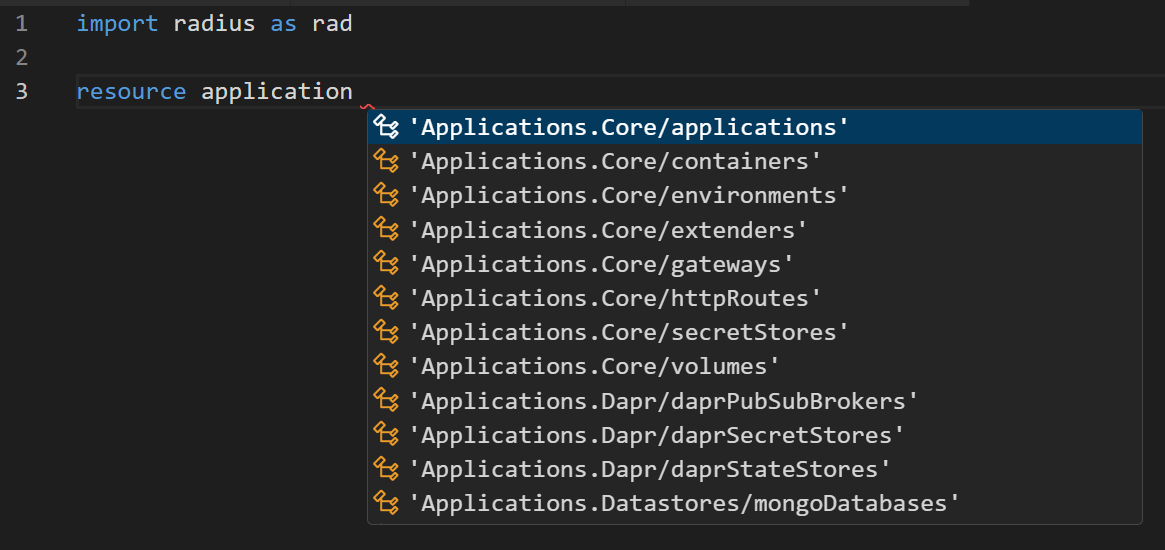
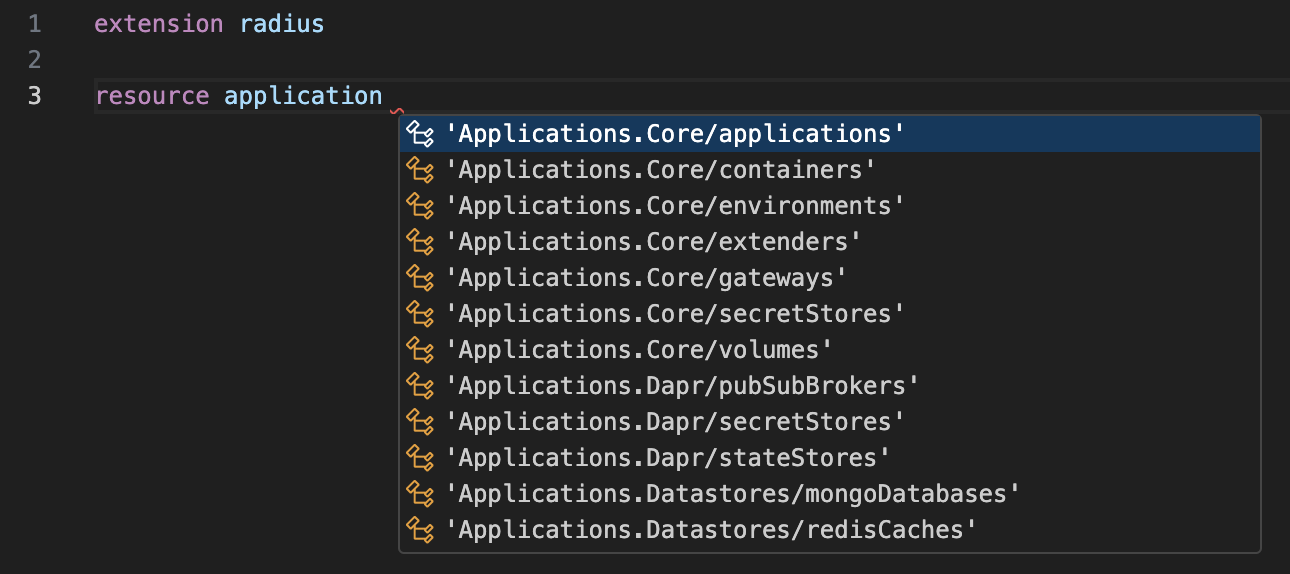
addressing comments

diff --git a/docs/layouts/partials/hooks/body-end.html b/docs/layouts/partials/hooks/body-end.html
@@ -5,7 +5,7 @@
     container: '#docsearch',
     appId: 'ED67NSVSZS',
     apiKey: '21e2920c3a9c29b98cbc382694413f29',
-    indexName: 'radapp-dev',
+    indexName: 'radapp-dev-edge',
   });
 </script>
 {{ end }}

diff --git a/docs/content/guides/tooling/vscode/overview/index.md b/docs/content/guides/tooling/vscode/overview/index.md
@@ -10,6 +10,9 @@ tags: ["VSCode"]
 
 When using Visual Studio Code with Radius there are a set of extensions you can install to help author, validate, and manage your Radius Applications and environments.
 
+**The official Bicep extension is not compatible with the Radius Bicep extension.** Previously, Radius made use of the Radius Bicep extension, a temporary extension used to model Radius and AWS resource types. The Radius Bicep extension has been deprecated and we have upstreamed our extensibility updates to the official Bicep. If you have the Radius Bicep extension installed you will need to disable or uninstall it before installing the Bicep extension. 
+{{< /alert >}}
+
 ## Bicep extension
 
 The Bicep extension provides formatting, intellisense, and validation for Bicep templates.
@@ -20,10 +23,6 @@ The Bicep extension provides formatting, intellisense, and validation for Bicep 
 {{< button text="Bicep guide" page="howto-vscode-bicep" >}}
 
 {{< alert title="Note" color="secondary" >}}
-
-
-**The official Bicep extension is not compatible with the Radius Bicep extension.** Previously, Radius made use of the Radius Bicep extension, a temporary extension used to model Radius and AWS resource types. The Radius Bicep extension has been deprecated and we have upstreamed our extensibility updates to the official Bicep. If you have the Radius Bicep extension installed you will need to disable or uninstall it before installing the Bicep extension. 
-{{< /alert >}}
 
 ## Terraform extension
 

diff --git a/docs/content/getting-started/index.md b/docs/content/getting-started/index.md
@@ -73,7 +73,7 @@ In addition to starting Radius services in your Kubernetes cluster, this initial
 
 {{< rad file="snippets/app.bicep" embed=true markdownConfig="{linenos=table,linenostart=1}" >}}
 
-> This file will run the `ghcr.io/radius-project/samples/demo:latest` image. This image is published by the Radius team to a public registry, you do not need to create it. `rad init` also creates a `bicepconfig.json` file in your application's directory that has the necessary setup to use Radius with the official Bicep compiler. 
+> This file will run the `ghcr.io/radius-project/samples/demo:latest` image. This image is published by the Radius team to a public registry, you do not need to create it. `rad init` also creates a `bicepconfig.json` file in your application's directory that has the necessary setup to use Radius with the official Bicep compiler. The "radius" extension contains the schema information for all Radius-maintained resources, and the "aws" extension contains the schema information for AWS resources. These are enabled by default in the `bicepconfig.json` so that you can use all Radius and AWS resources. 
 
 ```json
 {

diff --git a/docs/shared-content/installation/vscode-bicep/install-vscode-bicep.md b/docs/shared-content/installation/vscode-bicep/install-vscode-bicep.md
@@ -1,6 +1,6 @@
 Visual Studio Code offers the best authoring experience for Radius and Bicep. Download and install the Bicep extension to easily author and validate Bicep templates:
 
-{{< alert title="Enable the official Bicep extension" color="warning" >}}
+{{< alert title="Disable the Radius Bicep extension" color="warning" >}}
 We previously released a version of the official Bicep extension specific to Radius called the Radius Bicep extension. We have since updated Radius to be compatible with the official Bicep extension. You can only have one VSCode Bicep extension installed at a time to build on Radius. If you have the Radius Bicep extension installed, you will need to uninstall it and use only the official Bicep extension.
 {{< /alert >}}
 {{< latest >}}

diff --git a/docs/content/guides/author-apps/secrets/howto-new-secretstore/index.md b/docs/content/guides/author-apps/secrets/howto-new-secretstore/index.md
@@ -16,7 +16,7 @@ By default, Radius leverages the hosting platform's secrets management solution 
 
 - [rad CLI]({{< ref "installation#step-1-install-the-rad-cli" >}})
 - [kubectl CLI](https://kubernetes.io/docs/tasks/tools/install-kubectl/)
-- [Bicep VSCode extension and Bicep configuration file]({{< ref "installation#step-2-install-the-radius-bicep-vs-code-extension" >}})
+- [Bicep VSCode extension and Bicep configuration file]({{< ref "installation#step-2-install-the-vs-code-extension" >}})
 - [Radius environment]({{< ref "installation#step-3-initialize-the-radius-control-plane-and-the-radius-environment" >}})
 
 ## Step 1: Add a Secret Store

diff --git a/docs/content/tutorials/new-app/index.md b/docs/content/tutorials/new-app/index.md
@@ -23,7 +23,7 @@ By the end of the tutorial, you will have created and deployed a new Radius Appl
 
 - [Supported Kubernetes cluster]({{< ref "/guides/operations/kubernetes/overview" >}})
 - [rad CLI]({{< ref "installation#step-1-install-the-rad-cli" >}})
-- [Bicep VSCode extension and Bicep configuration file]({{< ref "installation#step-2-install-the-radius-bicep-vs-code-extension" >}})
+- [Bicep VSCode extension and Bicep configuration file]({{< ref "installation#step-2-install-the-vs-code-extension" >}})
 
 ## Step 1: Initialize a Radius Environment and Application
 

diff --git a/docs/content/guides/author-apps/aws/howto-aws-resources/index.md b/docs/content/guides/author-apps/aws/howto-aws-resources/index.md
@@ -24,7 +24,7 @@ This how-to guide will show you:
 - [eksctl CLI](https://docs.aws.amazon.com/eks/latest/userguide/eksctl.html)
 - [kubectl CLI](https://kubernetes.io/docs/tasks/tools/install-kubectl/)
 - [rad CLI]({{< ref "installation#step-1-install-the-rad-cli" >}})
-- [Bicep VSCode extension and Bicep configuration file]({{< ref "installation#step-2-install-the-radius-bicep-extension" >}})
+- [Bicep VSCode extension and Bicep configuration file]({{< ref "installation#step-2-install-the-vs-code-extension" >}})
 
 ## Step 1: Create an EKS Cluster
 

diff --git a/docs/content/reference/limitations.md b/docs/content/reference/limitations.md
@@ -75,10 +75,10 @@ The Bicep deployment engine currently does not output Kubernetes resource (UCP) 
 To fix this, you can manually build and output UCP IDs, which will cause the infrastructure to be linked to the resource:
 
 ```bicep
-import kubernetes as k8s {
+extension kubernetes with {
   kubeConfig: ''
   namespace: 'default'
-}
+}  as k8s
 
 resource deployment 'apps/Deployment@v1' = {...}
 
